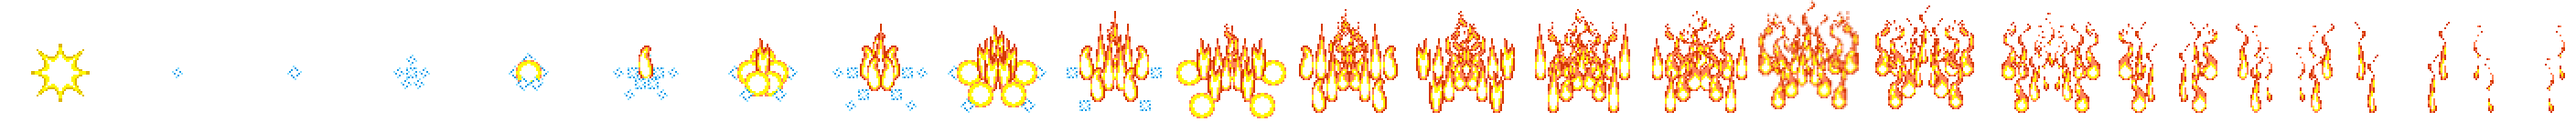
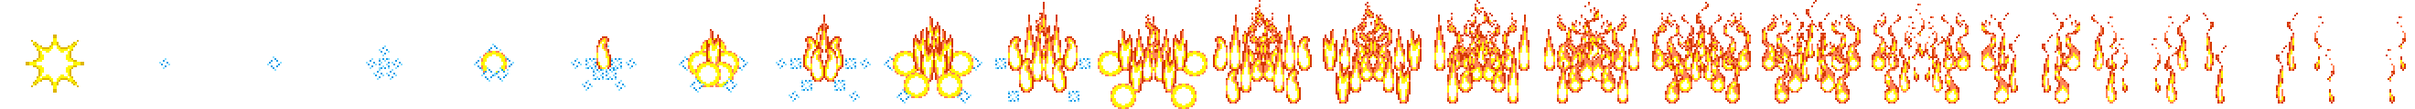
UI매니저, 불대문자이미지 수정

diff --git a/Pokemon_Mystery_Dungeon/EF_FireBlast.cpp b/Pokemon_Mystery_Dungeon/EF_FireBlast.cpp
@@ -3,7 +3,7 @@
 
 HRESULT EF_FireBlast::init(float x, float y)
 {
-	_img = IMAGEMANAGER->addFrameDImage("FireBlast", L"img/effect/FireBlast.png", 2816, 134, 22, 1);
+	_img = IMAGEMANAGER->addFrameDImage("FireBlast", L"img/effect/FireBlast.png", 2640, 120, 22, 1);
 	_x = x;
 	_y = y;
 	_body = RectMakeCenter(_x, _y, TILEWIDTH, TILEHEIGHT);

diff --git a/Pokemon_Mystery_Dungeon/DynamicPunch.cpp b/Pokemon_Mystery_Dungeon/DynamicPunch.cpp
@@ -21,6 +21,8 @@ void DynamicPunch::release()
 
 void DynamicPunch::useSkill(float x, float y)
 {
+	Skill::useSkill(x, y);
+
 	_dynamicPunchEffect = new EF_DynamicPunch;
 	_dynamicPunchEffect->init(x, y);
 	EFFECTMANAGER->addEffect(_dynamicPunchEffect);

diff --git a/Pokemon_Mystery_Dungeon/PoisonPowder.cpp b/Pokemon_Mystery_Dungeon/PoisonPowder.cpp
@@ -21,6 +21,8 @@ void PoisonPowder::release()
 
 void PoisonPowder::useSkill(float x, float y)
 {
+	Skill::useSkill(x, y);
+
 	_poisonPowderEffect = new EF_PoisonPowder;
 	_poisonPowderEffect->init(x, y);
 	EFFECTMANAGER->addEffect(_poisonPowderEffect);

diff --git a/Pokemon_Mystery_Dungeon/SleepPowder.cpp b/Pokemon_Mystery_Dungeon/SleepPowder.cpp
@@ -21,4 +21,9 @@ void SleepPowder::release()
 
 void SleepPowder::useSkill(float x, float y)
 {
+	Skill::useSkill(x, y);
+
+	_sleepPowderEffect = new EF_SleepPowder;
+	_sleepPowderEffect->init(x, y);
+	EFFECTMANAGER->addEffect(_sleepPowderEffect);
 }

diff --git a/Pokemon_Mystery_Dungeon/ThunderFang.cpp b/Pokemon_Mystery_Dungeon/ThunderFang.cpp
@@ -21,6 +21,8 @@ void ThunderFang::release()
 
 void ThunderFang::useSkill(float x, float y)
 {
+	Skill::useSkill(x, y);
+
 	_thunderFangEffect = new EF_ThunderFang;
 	_thunderFangEffect->init(x, y);
 	EFFECTMANAGER->addEffect(_thunderFangEffect);

diff --git a/Pokemon_Mystery_Dungeon/StunSpore.cpp b/Pokemon_Mystery_Dungeon/StunSpore.cpp
@@ -21,4 +21,9 @@ void StunSpore::release()
 
 void StunSpore::useSkill(float x, float y)
 {
+	Skill::useSkill(x, y);
+
+	_stunSporeEffect = new EF_StunSpore;
+	_stunSporeEffect->init(x, y);
+	EFFECTMANAGER->addEffect(_stunSporeEffect);
 }

diff --git a/Pokemon_Mystery_Dungeon/FireBlast.cpp b/Pokemon_Mystery_Dungeon/FireBlast.cpp
@@ -21,6 +21,8 @@ void FireBlast::release()
 
 void FireBlast::useSkill(float x, float y)
 {
+	Skill::useSkill(x, y);
+
 	_fireBlastEffect = new EF_FireBlast;
 	_fireBlastEffect->init(x, y);
 	EFFECTMANAGER->addEffect(_fireBlastEffect);

diff --git a/Pokemon_Mystery_Dungeon/LeafBlade.cpp b/Pokemon_Mystery_Dungeon/LeafBlade.cpp
@@ -21,6 +21,8 @@ void LeafBlade::release()
 
 void LeafBlade::useSkill(float x, float y)
 {
+	Skill::useSkill(x, y);
+
 	_leafBladeEffect = new EF_LeafBlade;
 	_leafBladeEffect->init(x, y);
 	EFFECTMANAGER->addEffect(_leafBladeEffect);

diff --git a/Pokemon_Mystery_Dungeon/Lightning.cpp b/Pokemon_Mystery_Dungeon/Lightning.cpp
@@ -21,6 +21,8 @@ void Lightning::release()
 
 void Lightning::useSkill(float x, float y)
 {
+	Skill::useSkill(x, y);
+
 	_lightningEffect = new EF_Lightning;
 	_lightningEffect->init(x, y);
 	EFFECTMANAGER->addEffect(_lightningEffect);
